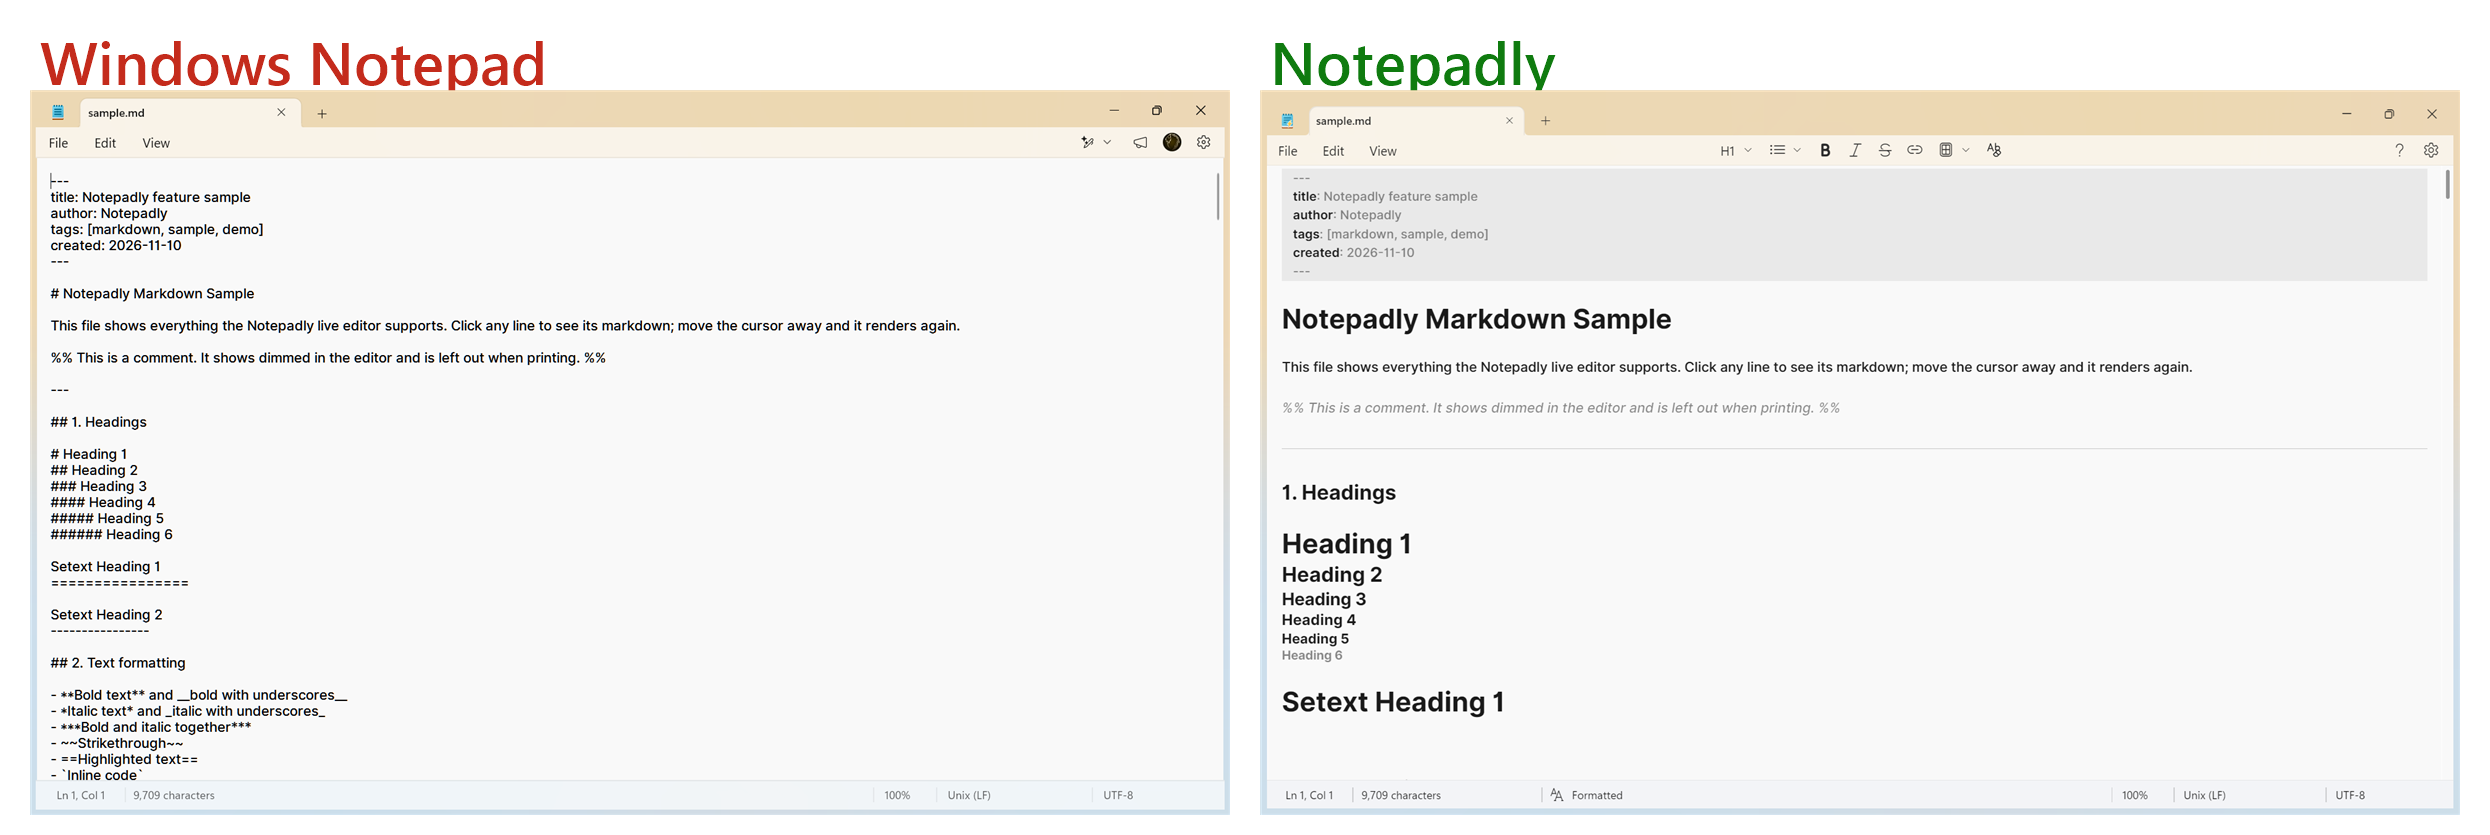
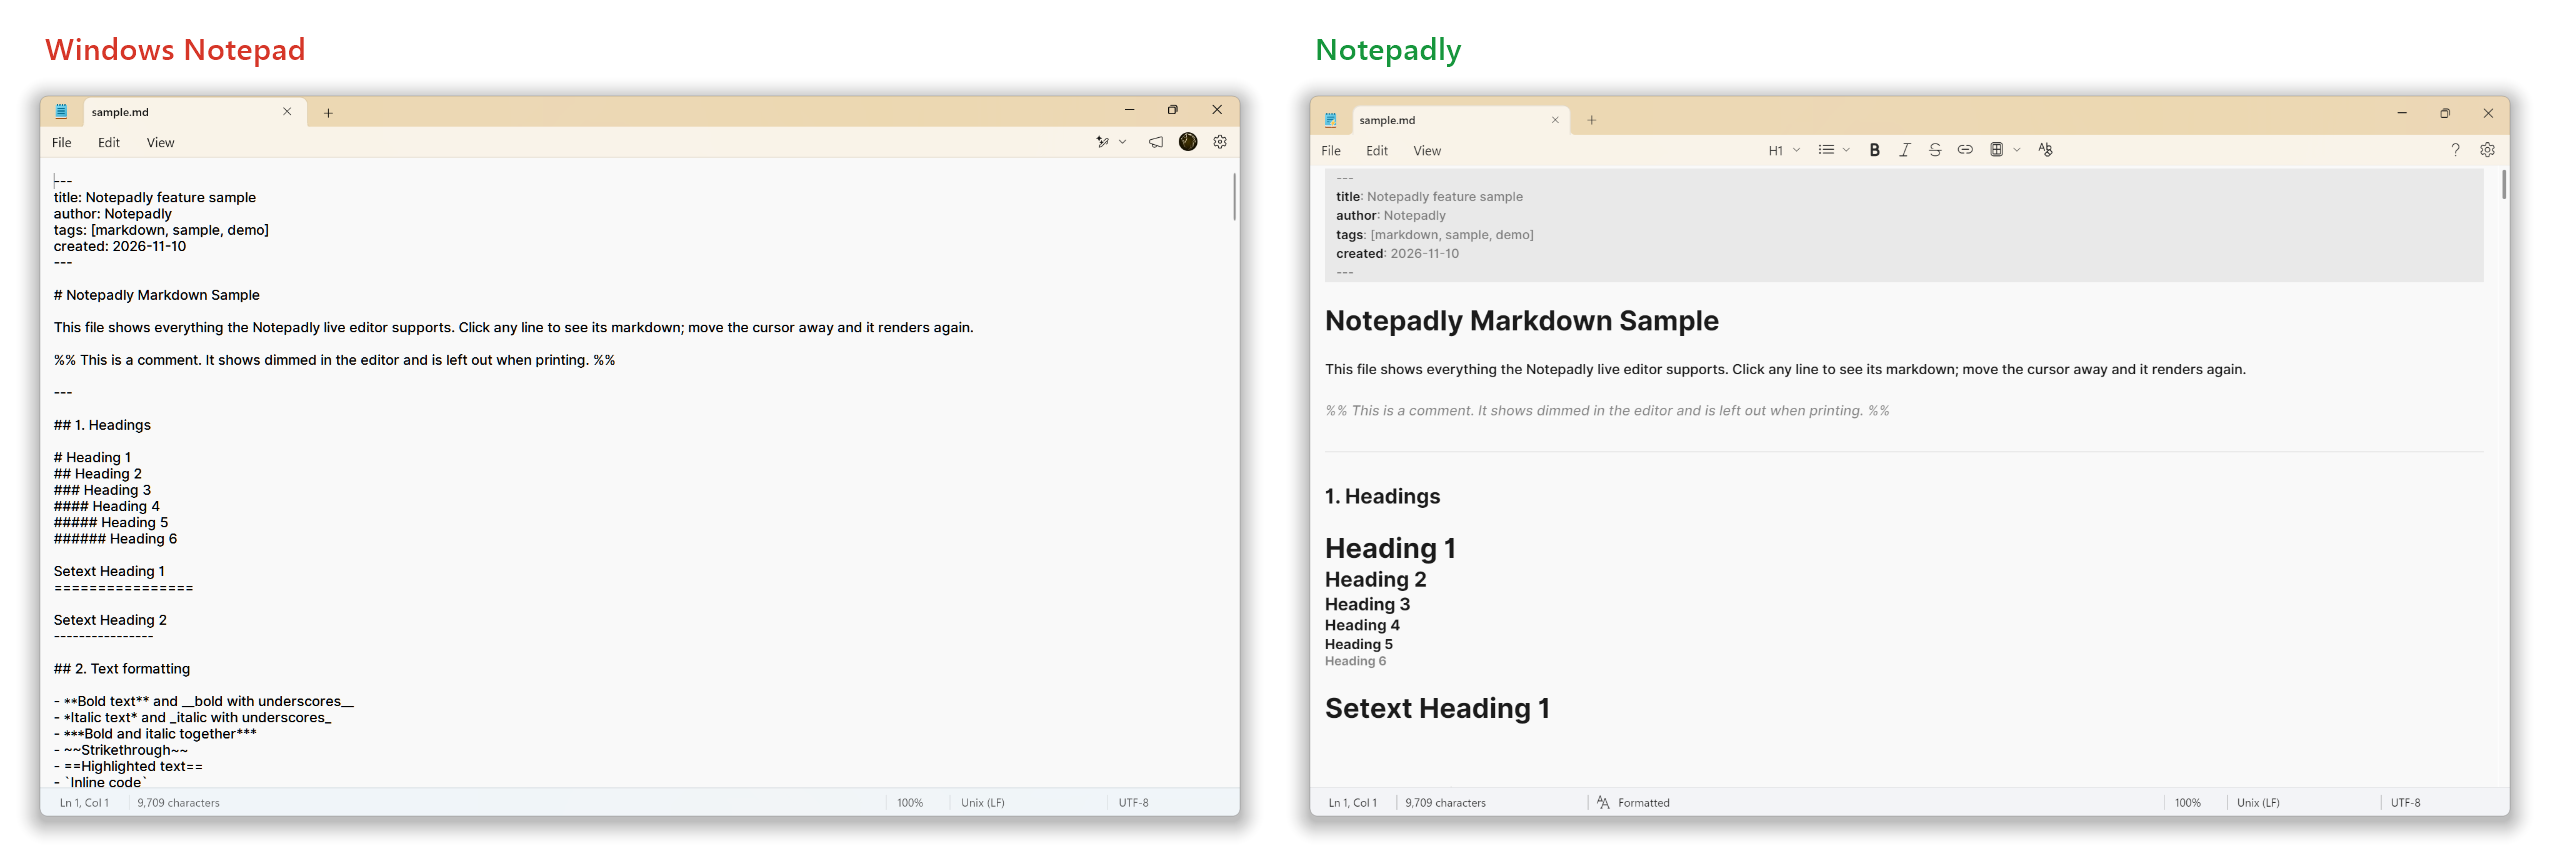
Stay in the background like Notepad; Windows 11 framed screenshots
- Closing the last window now hides it instead of quitting: the WebView2 is
  suspended (TrySuspend), its memory target set to low and the working set
  trimmed, so the app waits at ~14 MB. The next launch wakes it in ~40 ms
  (was ~500 ms cold). New setting "Keep running in the background", on by default.
- The launching process grants foreground rights so the woken window gets focus.
- README: benchmarks re-measured with Task Manager's memory metric (only the
  app and its WebView2 processes), reopen time and background memory added.
- Screenshots get Windows 11 rounded corners, a hairline border and a soft
  shadow on a transparent background.

Changed region(s): [[0.0, 0.0311, 0.9896, 0.9964]]

diff --git a/src/state/actions.ts b/src/state/actions.ts
@@ -504,6 +504,19 @@ async function prepareWindowClose(): Promise<boolean> {
   }
 }
 
+/**
+ * Puts the window into the state a fresh launch would show, so waking it from the
+ * background looks exactly like starting the app. prepareWindowClose has already
+ * stored or resolved every tab.
+ */
+async function resetForBackground(): Promise<void> {
+  useApp.setState({ view: "editor", dialog: null, find: { open: false, replace: false } });
+  if (isMainWindow && state().settings.startup === "continue") return; // the session is what comes back
+  const old = state().tabs.map((t) => t.id);
+  await newTab();
+  old.forEach(removeFromList);
+}
+
 async function closeWindow(): Promise<void> {
   await getCurrentWindow().close();
 }
@@ -607,7 +620,18 @@ function wireWindowEvents(): void {
 
   win
     .onCloseRequested(async (event) => {
-      if (!(await prepareWindowClose())) event.preventDefault();
+      if (!(await prepareWindowClose())) {
+        event.preventDefault();
+        return;
+      }
+      // Like Notepad: the last window hides and waits instead of quitting.
+      if (!state().settings.background || !(await ipc.isLastWindow().catch(() => false))) return;
+      event.preventDefault();
+      await resetForBackground();
+      await ipc.enterBackground().catch(async (error) => {
+        console.error("Notepadly: could not go to the background", error);
+        await win.destroy();
+      });
     })
     .catch(warn("close listener failed"));
 

diff --git a/src/components/Help/index.tsx b/src/components/Help/index.tsx
@@ -100,7 +100,7 @@ const SECTIONS: Section[] = [
   {
     id: "files",
     title: "Opening and saving files",
-    keywords: "save open lock large big encoding utf line ending crlf lf recent session draft changed disk",
+    keywords: "save open lock large big encoding utf line ending crlf lf recent session draft changed disk background memory fast start",
     body: (
       <>
         <ul>
@@ -126,6 +126,10 @@ const SECTIONS: Section[] = [
           </li>
           <li>
             <em>File &gt; Recent</em> lists the last files you opened.
+          </li>
+          <li>
+            Closing the last window keeps Notepadly asleep in the background, using very little memory, so it opens
+            again instantly. Turn this off in Settings under <em>Keep running in the background</em>.
           </li>
         </ul>
       </>

diff --git a/src/components/Settings/index.tsx b/src/components/Settings/index.tsx
@@ -265,6 +265,13 @@ export default function Settings() {
             <Expander icon={<Icon cp={G.startup} />} title="When Notepadly starts">
               <Radios label="When Notepadly starts" value={s.startup} options={STARTUP} onChange={(v) => set("startup", v)} />
             </Expander>
+            <ToggleCard
+              icon={<Icon cp={G.speed} />}
+              title="Keep running in the background"
+              subtitle="Opens instantly next time. Uses little memory while closed."
+              value={s.background}
+              onChange={(v) => set("background", v)}
+            />
             <ToggleCard icon={<Icon cp={G.recent} />} title="Recent Files" value={s.recentFiles} onChange={(v) => set("recentFiles", v)} />
 
             <h2 className="settings-label">Spelling</h2>

diff --git a/src/state/logic.ts b/src/state/logic.ts
@@ -12,6 +12,7 @@ export const DEFAULT_SETTINGS: Settings = {
   formatting: true,
   openFilesIn: "tab",
   startup: "continue",
+  background: true,
   recentFiles: true,
   spellcheck: false,
   autocorrect: true,
@@ -52,6 +53,7 @@ export function sanitizeSettings(raw: unknown): Settings {
     formatting: bool(r.formatting, d.formatting),
     openFilesIn: oneOf(r.openFilesIn, ["tab", "window"] as const, d.openFilesIn),
     startup: oneOf(r.startup, ["continue", "new"] as const, d.startup),
+    background: bool(r.background, d.background),
     recentFiles: bool(r.recentFiles, d.recentFiles),
     spellcheck: bool(r.spellcheck, d.spellcheck),
     autocorrect: bool(r.autocorrect, d.autocorrect),

diff --git a/src/lib/ipc.ts b/src/lib/ipc.ts
@@ -68,6 +68,11 @@ export const ipc = {
   newWindow: (paths: string[]) => invoke<void>("window_new", { paths }),
   systemFonts: () => invoke<string[]>("system_fonts"),
   revealInExplorer: (path: string) => invoke<void>("reveal_in_explorer", { path }),
+
+  /** True when no other app window is on screen. */
+  isLastWindow: () => invoke<boolean>("is_last_window"),
+  /** Hides this window and suspends its webview; the next launch wakes it. */
+  enterBackground: () => invoke<void>("enter_background"),
 };
 
 /** Event carrying string[] of paths when a second launch forwards its argv. */

diff --git a/src/state/types.ts b/src/state/types.ts
@@ -15,6 +15,8 @@ export interface Settings {
   formatting: boolean;
   openFilesIn: "tab" | "window";
   startup: "continue" | "new";
+  /** Hide instead of quitting when the last window closes, so the next launch is instant. */
+  background: boolean;
   recentFiles: boolean;
   spellcheck: boolean;
   autocorrect: boolean;

diff --git a/src/components/icons.tsx b/src/components/icons.tsx
@@ -32,6 +32,7 @@ export const G = {
   formatting: 0xedc6,
   openFile: 0xe8a7,
   startup: 0xf5a7,
+  speed: 0xec4a,
   recent: 0xe823,
   spell: 0xf87b,
   autocorrect: 0xeb7e,

diff --git a/src-tauri/src/background.rs b/src-tauri/src/background.rs
@@ -1,0 +1,103 @@
+//! Like Windows Notepad, Notepadly stays alive after its last window closes: the
+//! window is hidden, its WebView2 is suspended and asked to use little memory,
+//! and the next launch shows it again almost at once instead of starting cold.
+
+use tauri::{AppHandle, Manager, WebviewWindow};
+use tauri_plugin_window_state::AppHandleExt;
+
+use crate::WINDOW_STATE_FLAGS;
+
+/// True when no other window of the app is on screen, so closing this one would
+/// otherwise end the app.
+#[tauri::command]
+pub fn is_last_window(window: WebviewWindow) -> bool {
+    window
+        .app_handle()
+        .webview_windows()
+        .values()
+        .all(|w| w.label() == window.label() || !w.is_visible().unwrap_or(false))
+}
+
+/// Hides the window and puts its webview to sleep instead of closing it.
+#[tauri::command]
+pub fn enter_background(app: AppHandle, window: WebviewWindow) -> Result<(), String> {
+    // A hidden window is never "closed", so the plugin would not save its size.
+    let _ = app.save_window_state(WINDOW_STATE_FLAGS);
+    window.hide().map_err(|e| e.to_string())?;
+    set_asleep(&window, true);
+    Ok(())
+}
+
+/// True when the window was waiting in the background.
+pub fn is_in_background(window: &WebviewWindow) -> bool {
+    !window.is_visible().unwrap_or(true)
+}
+
+/// Wakes a window that `enter_background` put to sleep. Call before showing it.
+pub fn wake(window: &WebviewWindow) {
+    set_asleep(window, false);
+}
+
+#[cfg(windows)]
+fn set_asleep(window: &WebviewWindow, asleep: bool) {
+    let _ = window.with_webview(move |webview| {
+        use webview2_com::Microsoft::Web::WebView2::Win32::{
+            ICoreWebView2_19, ICoreWebView2_3, COREWEBVIEW2_MEMORY_USAGE_TARGET_LEVEL_LOW,
+            COREWEBVIEW2_MEMORY_USAGE_TARGET_LEVEL_NORMAL,
+        };
+        use windows_core::Interface;
+
+        let controller = webview.controller();
+        // SAFETY: COM calls on the webview's own controller, made on the main
+        // thread where with_webview runs this closure.
+        unsafe {
+            let Ok(core) = controller.CoreWebView2() else {
+                return;
+            };
+            let level = if asleep {
+                COREWEBVIEW2_MEMORY_USAGE_TARGET_LEVEL_LOW
+            } else {
+                COREWEBVIEW2_MEMORY_USAGE_TARGET_LEVEL_NORMAL
+            };
+            if asleep {
+                // TrySuspend only works on a webview that is not visible.
+                let _ = controller.SetIsVisible(false);
+                if let Ok(core19) = core.cast::<ICoreWebView2_19>() {
+                    let _ = core19.SetMemoryUsageTargetLevel(level);
+                }
+                if let Ok(core3) = core.cast::<ICoreWebView2_3>() {
+                    let done = webview2_com::TrySuspendCompletedHandler::create(Box::new(
+                        |_result, _suspended| {
+                            trim_own_memory();
+                            Ok(())
+                        },
+                    ));
+                    let _ = core3.TrySuspend(&done);
+                }
+                trim_own_memory();
+            } else {
+                if let Ok(core3) = core.cast::<ICoreWebView2_3>() {
+                    let _ = core3.Resume();
+                }
+                if let Ok(core19) = core.cast::<ICoreWebView2_19>() {
+                    let _ = core19.SetMemoryUsageTargetLevel(level);
+                }
+                let _ = controller.SetIsVisible(true);
+            }
+        }
+    });
+}
+
+#[cfg(not(windows))]
+fn set_asleep(_window: &WebviewWindow, _asleep: bool) {}
+
+/// Hands this process's unused pages back to Windows while it waits.
+#[cfg(windows)]
+fn trim_own_memory() {
+    use windows_sys::Win32::System::Threading::{GetCurrentProcess, SetProcessWorkingSetSize};
+    // SAFETY: (usize::MAX, usize::MAX) is the documented "trim now" request for
+    // the current process; it touches no memory we own.
+    unsafe {
+        SetProcessWorkingSetSize(GetCurrentProcess(), usize::MAX, usize::MAX);
+    }
+}

diff --git a/src-tauri/src/lib.rs b/src-tauri/src/lib.rs
@@ -1,5 +1,6 @@
 //! Notepadly backend: per-call file I/O, drafts and session, windows, fonts.
 
+mod background;
 mod files;
 mod fonts;
 mod store;
@@ -17,6 +18,11 @@ use tauri_plugin_window_state::StateFlags;
 
 const MAIN_WINDOW: &str = "main";
 const OPEN_PATHS_EVENT: &str = "open-paths";
+/// What the window-state plugin remembers. VISIBLE must stay out: the frontend
+/// shows the window after first paint.
+const WINDOW_STATE_FLAGS: StateFlags = StateFlags::SIZE
+    .union(StateFlags::POSITION)
+    .union(StateFlags::MAXIMIZED);
 
 /// Runs blocking work on the blocking pool, never on the main thread.
 async fn blocking<T: Send + 'static>(
@@ -235,6 +241,11 @@ fn on_second_instance(app: &AppHandle, argv: Vec<String>, cwd: String) {
     let Some(window) = window else { return };
     let state = app.state::<WindowPaths>();
     let label = window.label().to_owned();
+    // Waiting in the background after its last window closed: wake it first so
+    // the page can take the paths, then show it below.
+    if background::is_in_background(&window) && state.is_ready(&label) {
+        background::wake(&window);
+    }
     if !state.is_ready(&label) {
         // Frontend still booting: it drains these and shows the window itself.
         state.store(&label, paths);
@@ -249,6 +260,16 @@ fn on_second_instance(app: &AppHandle, argv: Vec<String>, cwd: String) {
 }
 
 pub fn run() {
+    // A second launch only forwards its arguments to the running instance. Windows
+    // gives the right to come to the front to the process the user just started,
+    // so hand it on; otherwise a window woken from the background opens behind.
+    #[cfg(windows)]
+    // SAFETY: plain Win32 call with a constant argument.
+    unsafe {
+        windows_sys::Win32::UI::WindowsAndMessaging::AllowSetForegroundWindow(
+            windows_sys::Win32::UI::WindowsAndMessaging::ASFW_ANY,
+        );
+    }
     tauri::Builder::default()
         .plugin(tauri_plugin_single_instance::init(|app, argv, cwd| {
             on_second_instance(app, argv, cwd)
@@ -256,9 +277,8 @@ pub fn run() {
         .plugin(tauri_plugin_dialog::init())
         .plugin(tauri_plugin_opener::init())
         .plugin(
-            // VISIBLE must stay out: the frontend shows the window after first paint.
             tauri_plugin_window_state::Builder::new()
-                .with_state_flags(StateFlags::SIZE | StateFlags::POSITION | StateFlags::MAXIMIZED)
+                .with_state_flags(WINDOW_STATE_FLAGS)
                 .with_filter(|label| label == MAIN_WINDOW)
                 .build(),
         )
@@ -296,6 +316,8 @@ pub fn run() {
             window_new,
             system_fonts,
             reveal_in_explorer,
+            background::is_last_window,
+            background::enter_background,
         ])
         .run(tauri::generate_context!())
         .expect("failed to start Notepadly");

diff --git a/README.md b/README.md
@@ -6,7 +6,7 @@
 
 **The Windows 11 Notepad look, with a real live Markdown editor inside.**
 
-Open a `.md` file and see headings, tables, maths, diagrams and callouts formatted as you type, in one pane, the way Obsidian's Live Preview works. Huge files open in about a second, and files are never locked.
+Open a `.md` file and see headings, tables, maths, diagrams and callouts formatted as you type, in one pane, the way Obsidian's Live Preview works. It reopens in about 40 ms, huge files open in about a second, and files are never locked.
 
 [**Download for Windows**](../../releases/latest) · [See every feature](#features) · [Benchmarks](#benchmarks)
 
@@ -26,8 +26,9 @@ Windows Notepad is great for plain text. Open a Markdown file in it, though, and
 | --- | :---: | :---: |
 | Windows 11 look (Mica, tabs, menus) | ✅ | ✅ |
 | Tabs, find and replace, zoom, word wrap, dark mode | ✅ | ✅ |
+| Reopening the app | 208 ms | **43 ms** |
 | Opens a **127 MB** Markdown file | **~28 s**, "Not Responding" for ~20 s | **content on screen in ~1 s** |
-| Extra memory used by that 127 MB file | **+270 MB** | **+10 MB** |
+| Memory with that 127 MB file open | 346 MB | **187 MB** |
 | Markdown tables shown as real tables, edited in place | ❌ raw `\| pipes \|` | ✅ |
 | Maths formulas (LaTeX / KaTeX) | ❌ | ✅ |
 | Mermaid diagrams (flowcharts, sequence, pie…) | ❌ | ✅ |
@@ -44,6 +45,7 @@ All numbers were measured on the same PC, with the same file, one app at a time:
 - **PC:** Intel Core i7-1355U, 24 GB RAM, Windows 11 Pro (build 26300), 150% display scale
 - **Notepad:** version 11.2607.14.0
 - **Test file:** 127 MB Markdown, made by repeating [`sample.md`](sample.md)
+- **Memory:** Task Manager's "Memory" column (private working set), for the app and all its WebView2 helper processes
 
 ### Large files
 
@@ -54,20 +56,23 @@ All numbers were measured on the same PC, with the same file, one app at a time:
 | Time until the text is on screen | 28.4 s | **under 1 s** | **~28× faster** |
 | Time the window is frozen ("Not Responding") | ~20 s | **0 s** | |
 | Time until fully idle | ~28 s | **2–4 s** | |
-| Memory with the file open | 357 MB | 259 MB | |
-| Memory **added** by the file | +269 MB | **+10 MB** | **~27× less** |
+| Memory with the file open | 346 MB | **187 MB** | **~46% less** |
 
 Notepadly never reads a whole file at once. It shows the first 256 KB straight away and loads the rest in the background as you scroll, so file size barely changes its memory use.
 
-### Everyday use
+### Startup and memory
 
 | | Windows Notepad | Notepadly |
 | --- | ---: | ---: |
-| Startup (window on screen, median of 5) | **200 ms** | 565 ms |
-| Memory when idle, all processes | **88 MB** | 249 MB |
+| **Reopening** the app (median of 5) | 208 ms | **43 ms** (~5× faster) |
+| First start after a restart (median of 3) | **185 ms** | 503 ms |
+| Memory with a window open | **70 MB** | 167 MB |
+| Memory while closed, waiting in the background | — | **14 MB** |
 | Download size | built in | **4.3 MB** installer |
 
-Notepad starts faster and uses less memory when idle, because Notepadly draws its window with Microsoft Edge WebView2. That cost stays flat, though: a 127 MB file adds only 10 MB to Notepadly, while the same file adds 269 MB to Notepad.
+Like Notepad, Notepadly stays ready in the background after you close its last window. It hides the window, puts its WebView2 to sleep and hands its memory back to Windows, so it waits at about 14 MB and then reappears in about 40 ms the next time you open it or a file. You can turn this off in Settings.
+
+The first start after a restart is slower than Notepad's, and an open window uses more memory, because Notepadly draws its window with Microsoft Edge WebView2. That cost stays flat as files grow, though: with a 127 MB file open, Notepadly uses 46% less memory than Notepad.
 
 ## Features
 
@@ -124,6 +129,7 @@ Open [`sample.md`](sample.md) in Notepadly to see all of them.
 
 ### 7. Built for speed and safety
 
+- **Reopens in ~40 ms:** closing the last window keeps Notepadly asleep in the background at about 14 MB, so the next launch is instant.
 - **Never locks files:** each read and save opens the file, does its work and closes it. Other programs can edit, rename or delete a file while it is open.
 - **Safe saves:** Notepadly writes to a temporary file, then swaps it in, so a crash never leaves a half-written file.
 - **Reloads changed files:** a clean tab reloads when the file changes on disk. If you have unsaved edits, Notepadly asks first.
